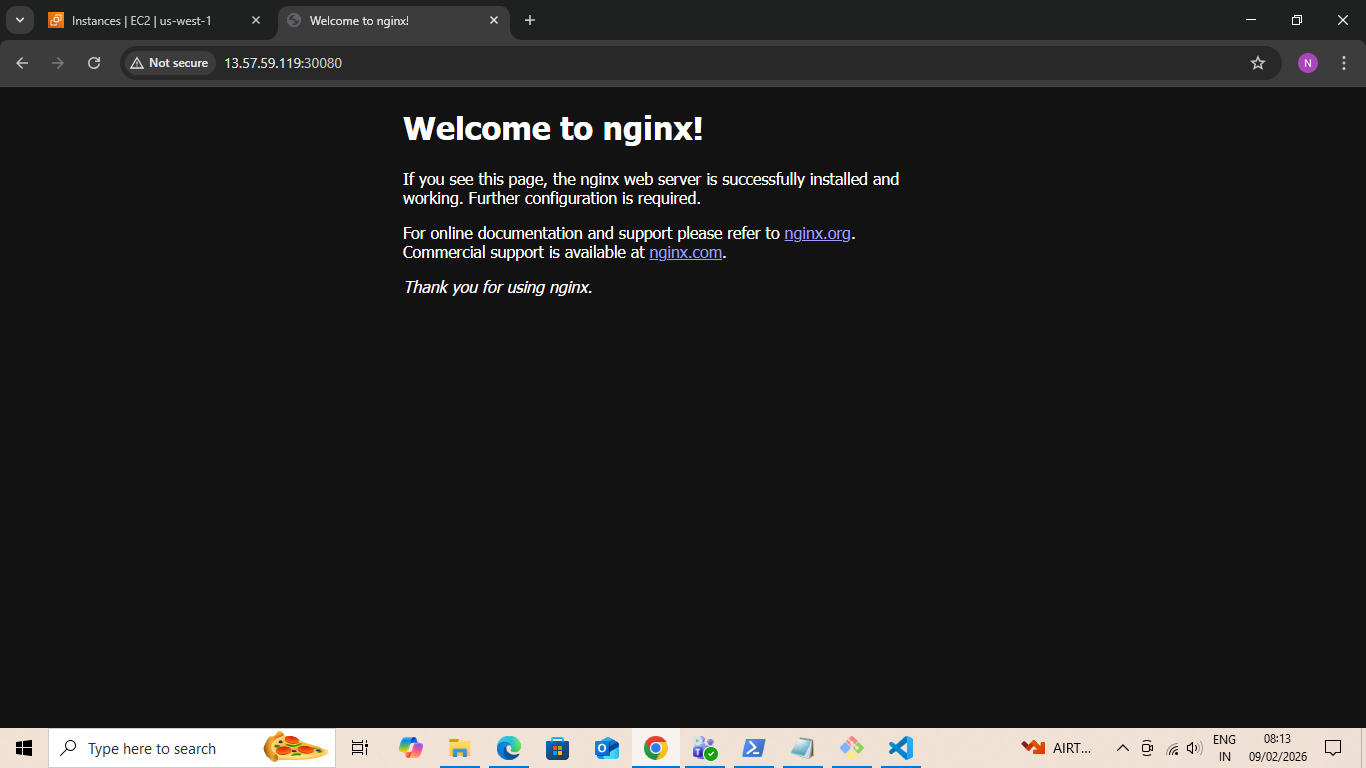
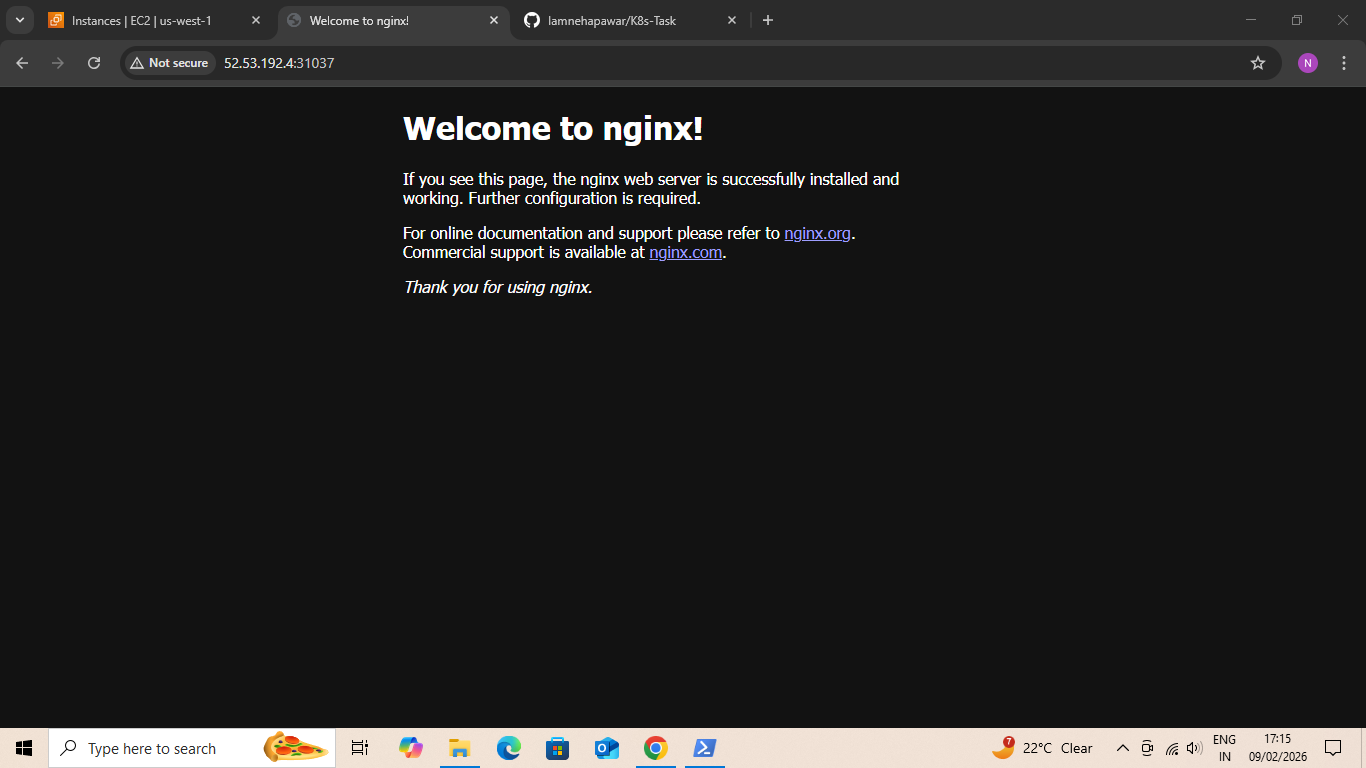
added or modified

diff --git a/README.md b/README.md
@@ -79,7 +79,7 @@
 
 #### 3. Create a NodePort Service to expose the application
 
-#### 4. Access the application from a browser using:
+#### 4. Access the application from a browser using: http://52.53.192.4:31037
 
 #### 5. Verify that the application output is visible in the browser
 
@@ -88,4 +88,18 @@
 #### 7. Create a README.md file and add:
 
 #### 8. Push theREADME.md file to a Git repository and submit the repository link
- ![](./img/browser-output.png)
+ 
+---
+
+##  Screenshots :
+
+### Pods and Deployment Status
+
+![](./img/pods-deployment-status.png)
+
+### NodePort Service
+
+![](./img/nodeport-service-status.png)
+
+###  Browser Output
+![](./img/browser-output.png)
